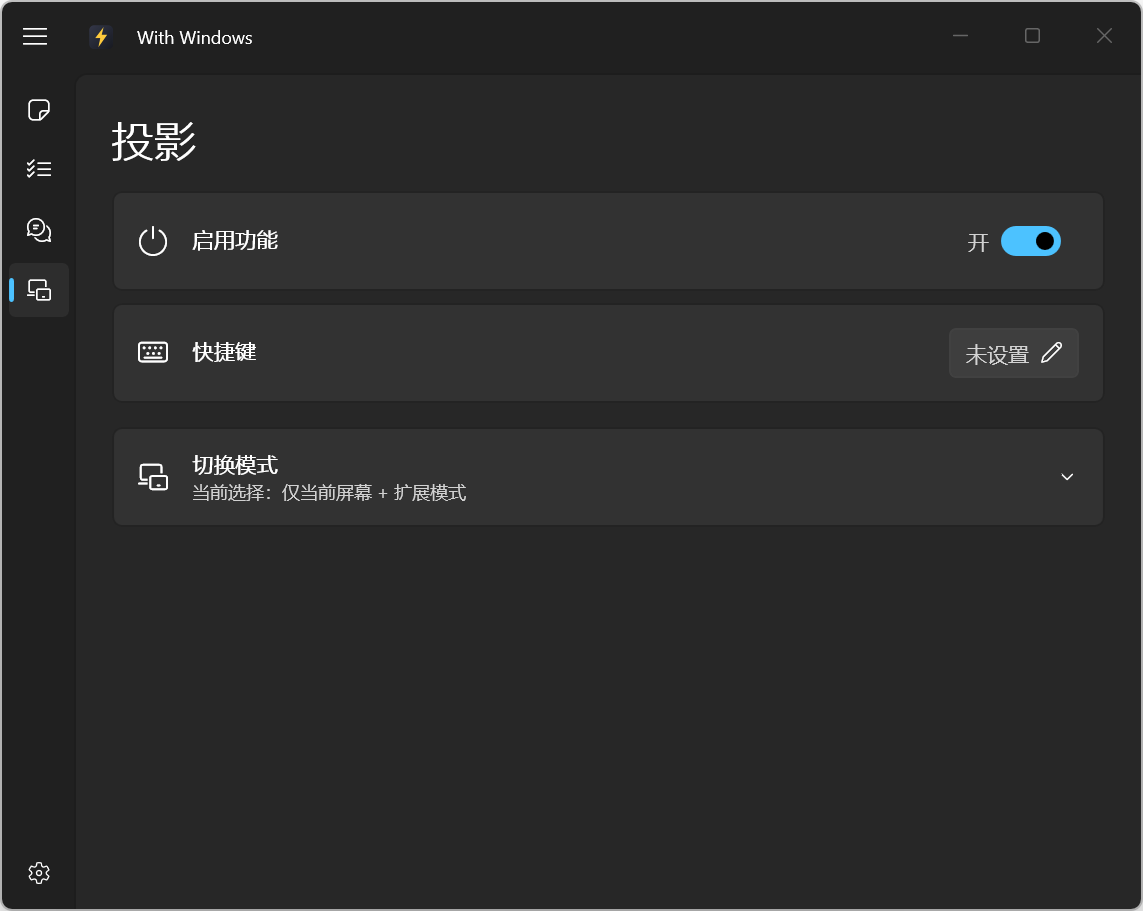
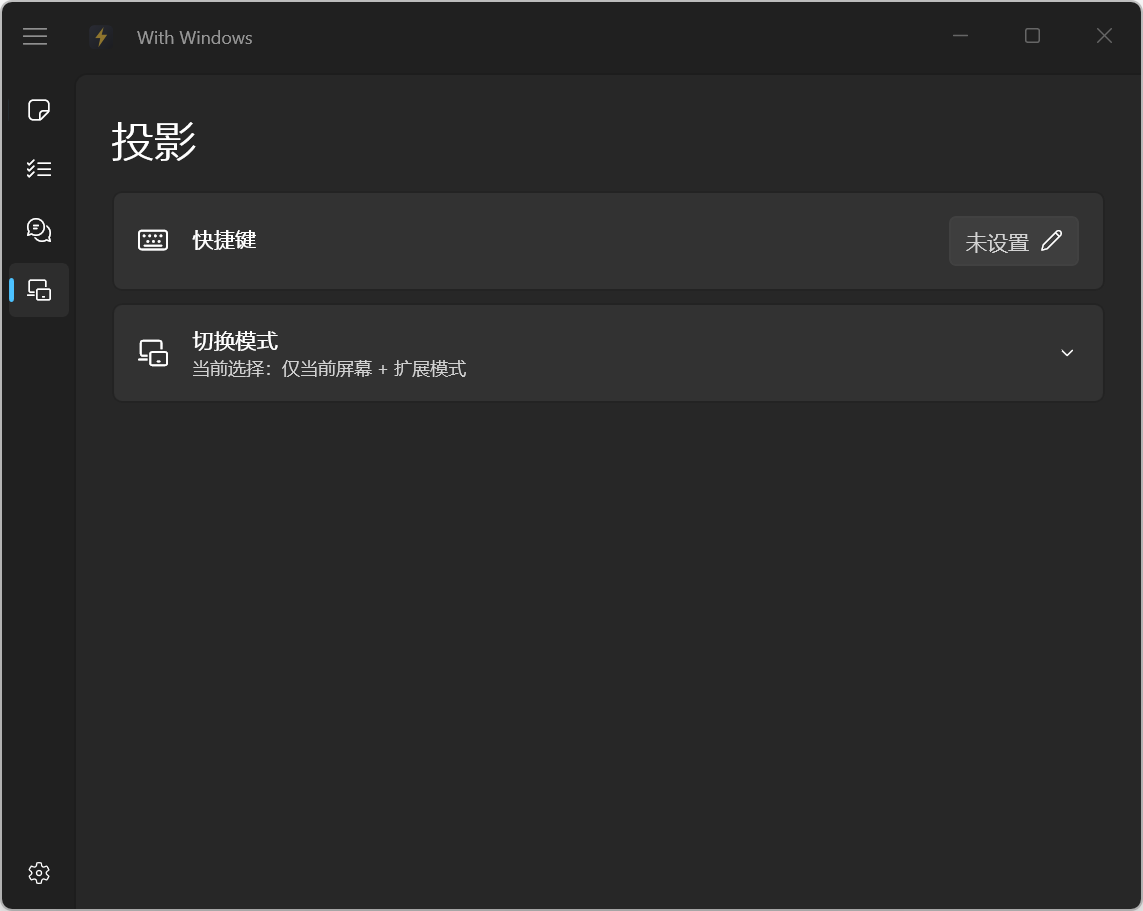
refactor(投影): 精简启停设置并统一选项间距

diff --git a/src/WithWindows.App/Views/DisplayPage.xaml b/src/WithWindows.App/Views/DisplayPage.xaml
@@ -22,28 +22,6 @@
                     Style="{StaticResource TitleTextBlockStyle}"
                     Text="投影" />
 
-                <controls:CardRow
-                    AutomationProperties.AutomationId="DisplayEnabledCard"
-                    Glyph="&#xE7E8;"
-                    Title="启用功能">
-                    <controls:CardRow.Trailing>
-                        <StackPanel Orientation="Horizontal" Spacing="8" VerticalAlignment="Center">
-                            <TextBlock
-                                x:Name="EnabledStateText"
-                                VerticalAlignment="Center"
-                                Foreground="{ThemeResource TextFillColorSecondaryBrush}"
-                                Text="关" />
-                            <ToggleSwitch
-                                x:Name="EnabledToggle"
-                                AutomationProperties.AutomationId="DisplayEnabledToggle"
-                                MinWidth="0"
-                                OffContent=""
-                                OnContent=""
-                                Toggled="OnEnabledToggled" />
-                        </StackPanel>
-                    </controls:CardRow.Trailing>
-                </controls:CardRow>
-
                 <controls:HotkeyRow
                     x:Name="DisplayHotkeyRow"
                     Glyph="&#xE765;"
@@ -52,7 +30,6 @@
 
                 <!-- 切换模式：默认折叠，展开后是原生多选框（PowerToys 的 SettingsExpander 风格） -->
                 <Expander
-                    Margin="0,8,0,0"
                     HorizontalAlignment="Stretch"
                     HorizontalContentAlignment="Stretch"
                     AutomationProperties.AutomationId="DisplayModesExpander"

diff --git a/src/WithWindows.App/Views/SettingsPage.xaml b/src/WithWindows.App/Views/SettingsPage.xaml
@@ -76,7 +76,6 @@
 
             <!-- 关于：参考 WinUI Gallery 的写法——折叠成一项，展开后每个条目一行 -->
             <Expander
-                Margin="0,8,0,0"
                 HorizontalAlignment="Stretch"
                 HorizontalContentAlignment="Stretch"
                 AutomationProperties.AutomationId="AboutExpander"

diff --git a/src/WithWindows.App/Views/DisplayPage.xaml.cs b/src/WithWindows.App/Views/DisplayPage.xaml.cs
@@ -4,14 +4,13 @@ using System.Linq;
 using Microsoft.UI.Xaml;
 using Microsoft.UI.Xaml.Automation;
 using Microsoft.UI.Xaml.Controls;
-using Microsoft.UI.Xaml.Controls.Primitives;
 using WithWindows.Core.Config;
 using WithWindows.Services;
 
 namespace WithWindows.Views;
 
 /// <summary>
-/// 投影页：功能开关、快捷键，以及展开组件里的原生多选框（候选模式；已勾选的项列在展开组件标题下）。
+/// 投影页：快捷键，以及展开组件里的原生多选框（候选模式；已勾选的项列在展开组件标题下）。
 /// 投影相关设置集中在这里（设置页不再重复）。
 /// </summary>
 public sealed partial class DisplayPage : Page
@@ -38,9 +37,6 @@ public sealed partial class DisplayPage : Page
 
     private static AppHost? Host => App.Host;
 
-    private static ToolBinding? DisplayBinding
-        => Host?.Config.Tools.FirstOrDefault(t => t.Id == Tools.ToolCatalog.DisplayModeId);
-
     private void OnLoaded(object sender, RoutedEventArgs e)
     {
         if (Host is null || ModesHost.Children.Count > 0)
@@ -49,8 +45,6 @@ public sealed partial class DisplayPage : Page
         _initializing = true;
         try
         {
-            EnabledToggle.IsOn = DisplayBinding?.Enabled ?? true;
-            EnabledStateText.Text = EnabledToggle.IsOn ? "开" : "关";
             BuildModeCheckBoxes();
             UpdateModesSummary();
         }
@@ -97,21 +91,6 @@ public sealed partial class DisplayPage : Page
             checkBox.Unchecked += (_, _) => OnModeToggled(capturedMode, isChecked: false, checkBox);
             ModesHost.Children.Add(checkBox);
         }
-    }
-
-    private void OnEnabledToggled(object sender, RoutedEventArgs e)
-    {
-        if (_initializing || Host is null)
-            return;
-
-        ToolBinding? binding = DisplayBinding;
-        if (binding is null)
-            return;
-
-        binding.Enabled = EnabledToggle.IsOn;
-        EnabledStateText.Text = EnabledToggle.IsOn ? "开" : "关";
-        Host.SaveConfig();
-        Host.ReloadBindings();
     }
 
     private void OnModeToggled(string mode, bool isChecked, CheckBox source)

diff --git a/tests/WithWindows.Core.Tests/ConfigStoreTests.cs b/tests/WithWindows.Core.Tests/ConfigStoreTests.cs
@@ -69,6 +69,37 @@ public class ConfigStoreTests : IDisposable
     }
 
     [Fact]
+    public void Load_投影禁用状态_迁移为启用并回写()
+    {
+        var store = NewStore();
+        File.WriteAllText(store.Path,
+            """
+            {
+              "version": 5,
+              "tools": [
+                { "id": "notepad", "enabled": true, "hotkey": null },
+                { "id": "display_mode", "enabled": false, "hotkey": "Ctrl+Alt+P" }
+              ],
+              "windowState": {
+                "width": 1024,
+                "height": 700,
+                "defaultPage": "notepad"
+              }
+            }
+            """);
+
+        AppConfig config = store.Load();
+
+        Assert.True(config.Tools.Single(t => t.Id == "display_mode").Enabled);
+        using JsonDocument saved = JsonDocument.Parse(File.ReadAllText(store.Path));
+        JsonElement displayTool = saved.RootElement
+            .GetProperty("tools")
+            .EnumerateArray()
+            .Single(tool => tool.GetProperty("id").GetString() == "display_mode");
+        Assert.True(displayTool.GetProperty("enabled").GetBoolean());
+    }
+
+    [Fact]
     public void Load_非法默认页_回退为记事()
     {
         var store = NewStore();

diff --git a/src/WithWindows.Core/Config/ConfigStore.cs b/src/WithWindows.Core/Config/ConfigStore.cs
@@ -210,6 +210,13 @@ public sealed class ConfigStore
             }
         }
 
+        ToolBinding displayMode = config.Tools.Single(t => t.Id == "display_mode");
+        if (!displayMode.Enabled)
+        {
+            displayMode.Enabled = true;
+            changed = true;
+        }
+
         return changed;
     }
 

diff --git a/docs/agents/ui-baseline.md b/docs/agents/ui-baseline.md
@@ -51,9 +51,11 @@ winapp ui screenshot -a WithWindows
 
 ## 投影与设置
 
-- 投影：`DisplayEnabledToggle`、`DisplayModesExpander`、`DisplayCurrentMode`
+- 投影：`DisplayModesExpander`、`DisplayCurrentMode`
 - 设置：`AutoStartToggle`、`DefaultWindowPageComboBox`（记事 / 待办 / AI 对话）、`HotkeyBox_notepad`
 - 关于：`AboutExpander`、`AboutVersion`、`AboutBuildDate`、`AboutRepository`
+
+投影页与设置页的主要选项组之间统一使用 8 DIP 垂直间距。
 
 ## 截图
 
